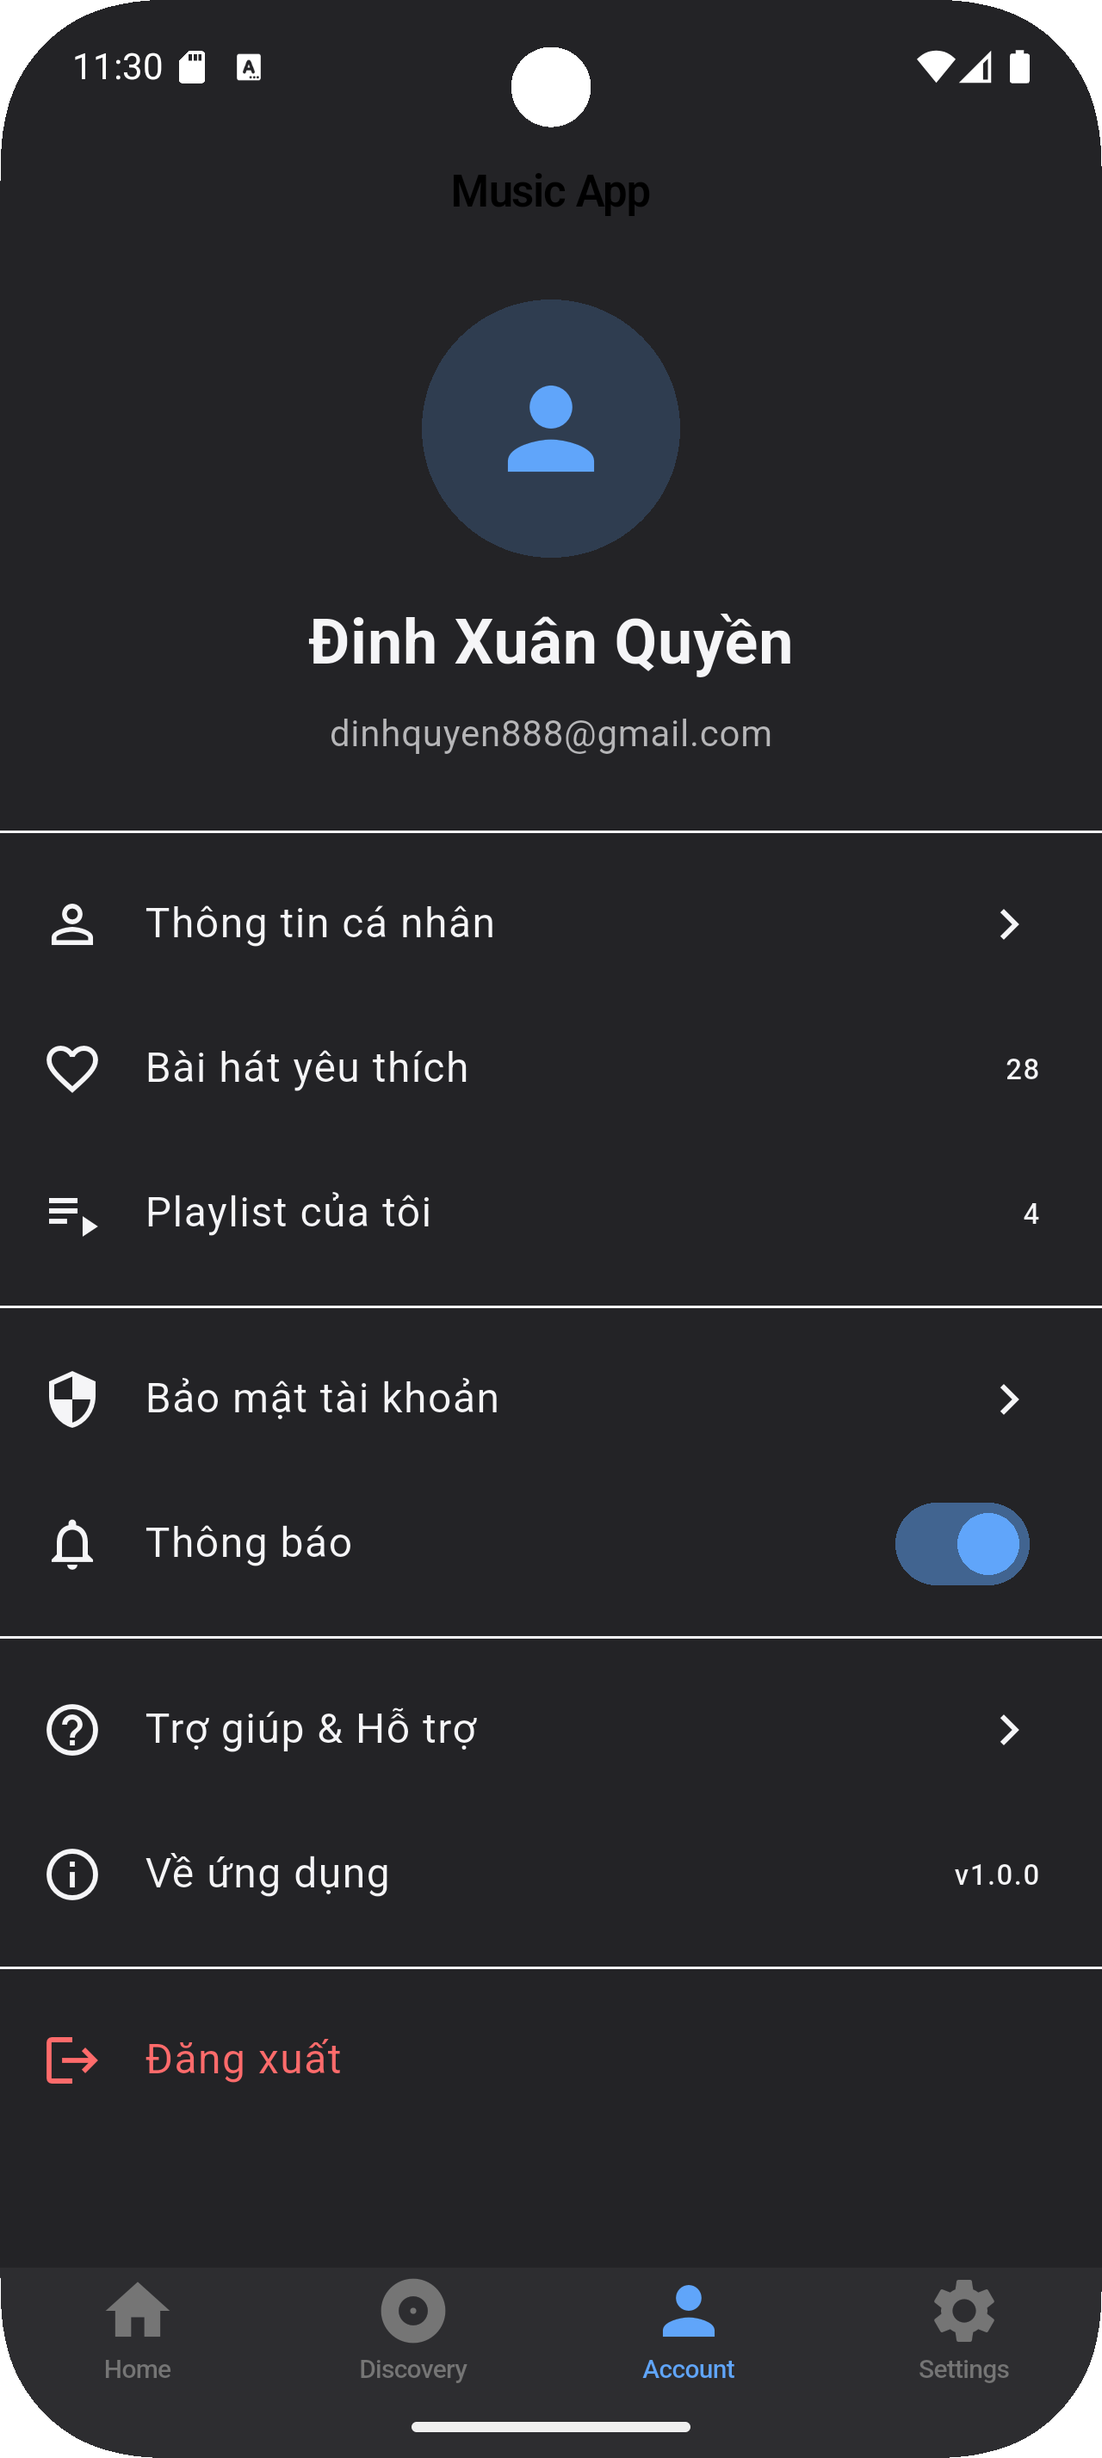
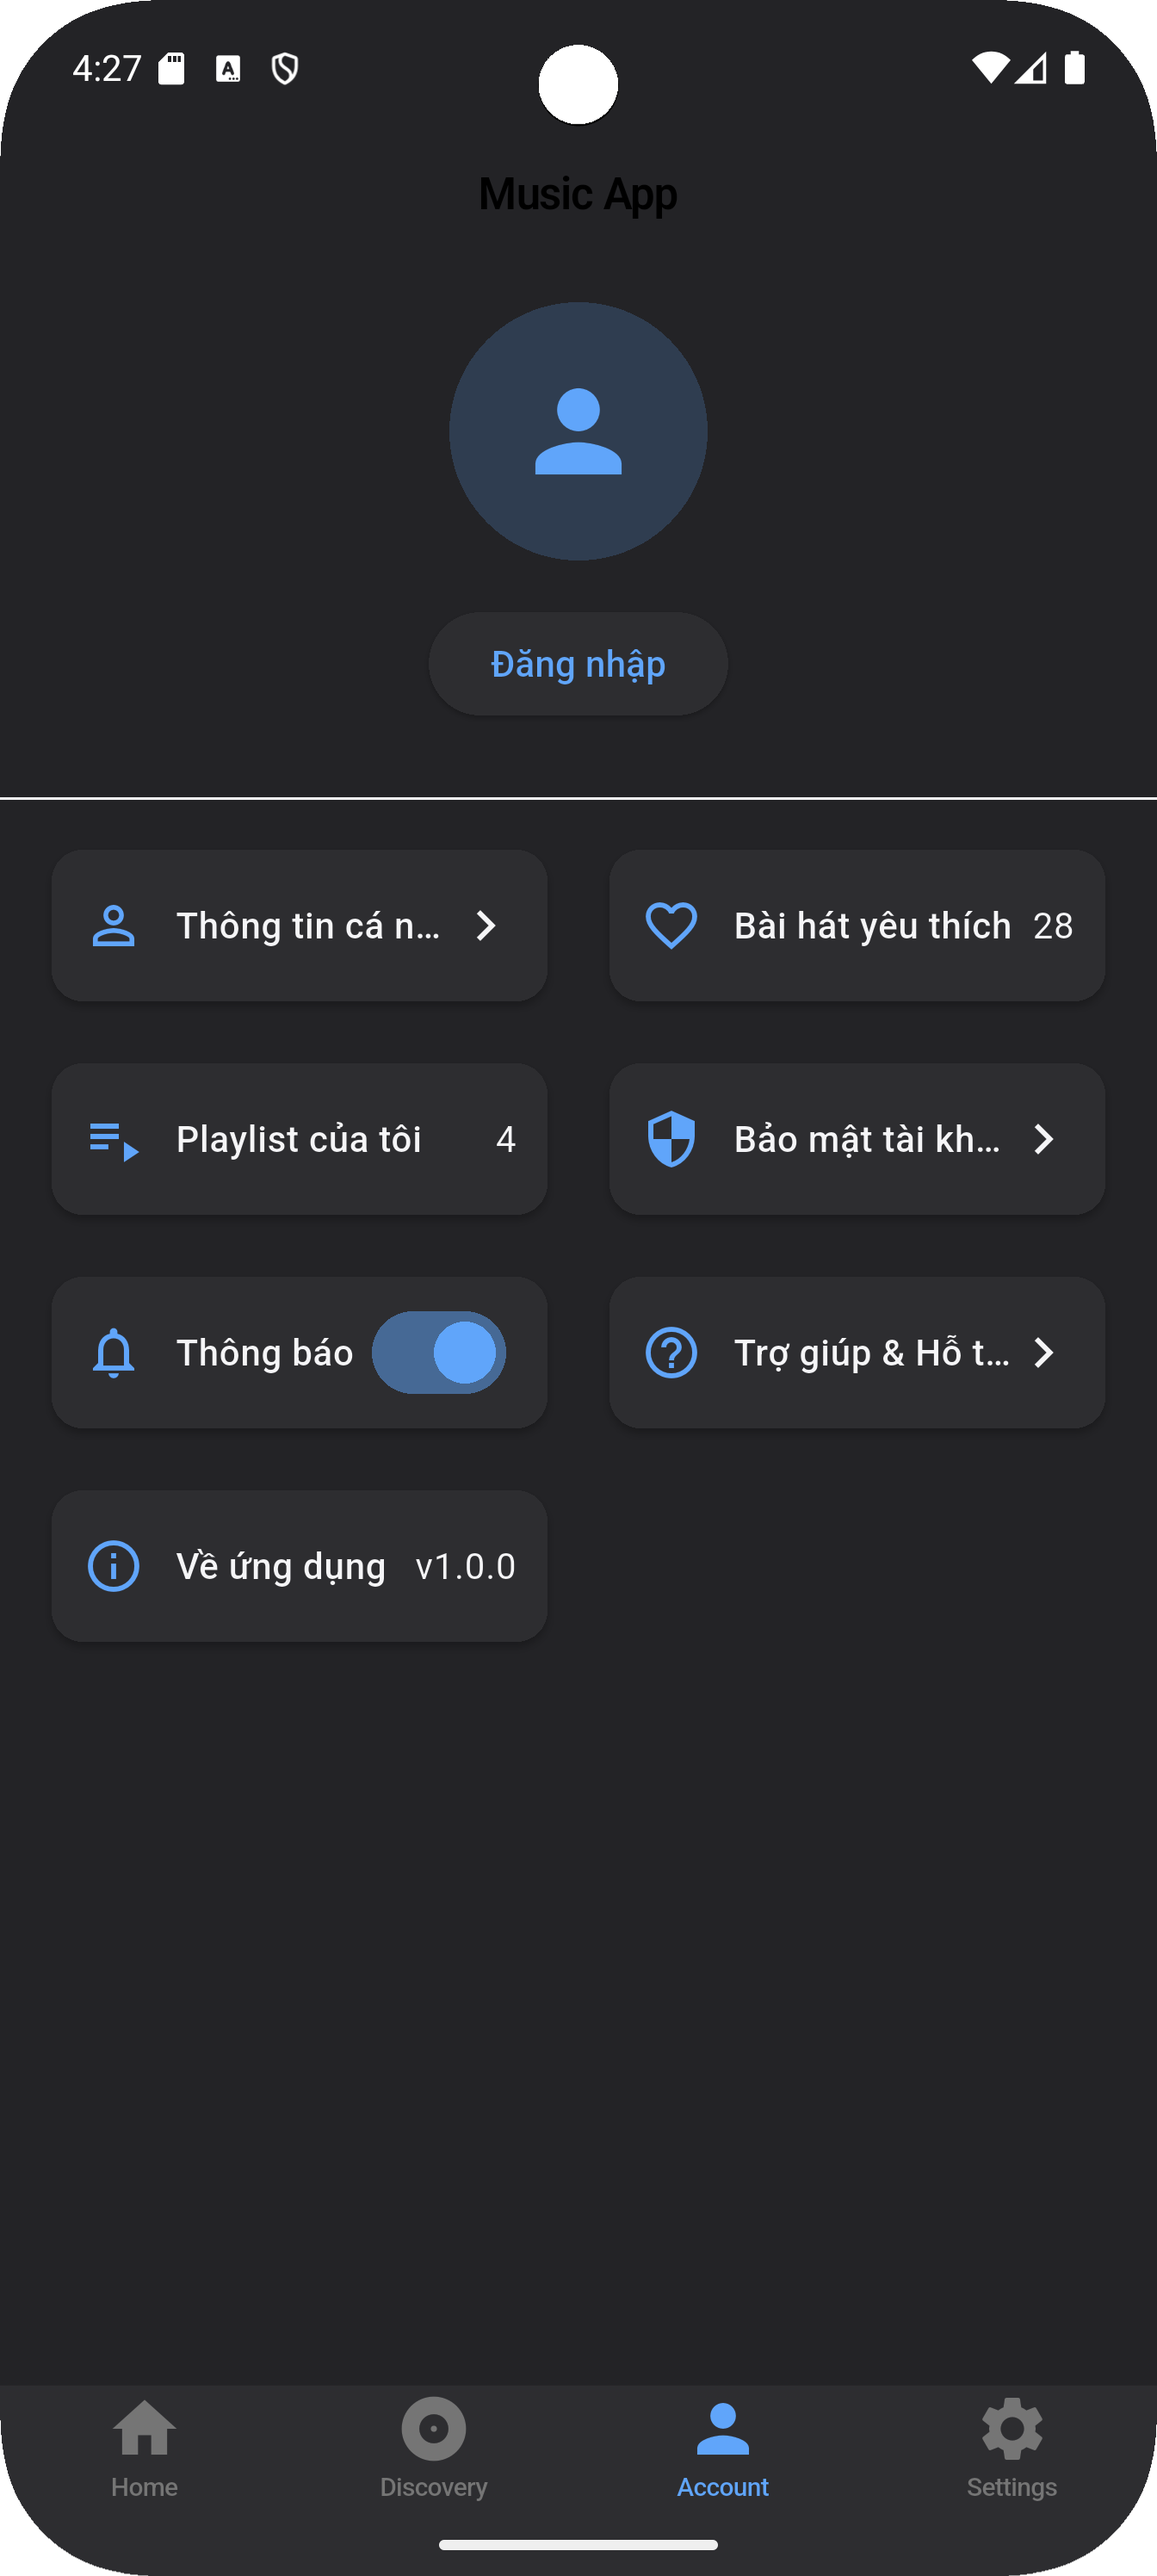
thay_listView_thanh_gridView_trang_acount

diff --git a/Group12Project/Music_app/lib/ui/user/user.dart b/Group12Project/Music_app/lib/ui/user/user.dart
@@ -74,92 +74,82 @@ class _AccountTabState extends State<AccountTab> {
               const Divider(),
 
               // Account Settings
-              ListView(
+              GridView(
                 shrinkWrap: true,
                 physics: const NeverScrollableScrollPhysics(),
+                padding: const EdgeInsets.symmetric(horizontal: 16, vertical: 8),
+                gridDelegate: const SliverGridDelegateWithFixedCrossAxisCount(
+                  crossAxisCount: 2,
+                  childAspectRatio: 3.0,
+                  crossAxisSpacing: 16,
+                  mainAxisSpacing: 16,
+                ),
                 children: [
-                  ListTile(
-                    leading: const Icon(Icons.person_outline),
-                    title: const Text('Thông tin cá nhân'),
+                  _buildSettingCard(
+                    icon: Icons.person_outline,
+                    title: 'Thông tin cá nhân',
                     trailing: const Icon(Icons.chevron_right),
                     onTap: () {
                       // TODO: Navigate to profile edit
                     },
                   ),
-                  ListTile(
-                    leading: const Icon(Icons.favorite_border),
-                    title: const Text('Bài hát yêu thích'),
+                  _buildSettingCard(
+                    icon: Icons.favorite_border,
+                    title: 'Bài hát yêu thích',
                     trailing: const Text('28'),
                     onTap: () {
                       // TODO: Navigate to favorites
                     },
                   ),
-                  ListTile(
-                    leading: const Icon(Icons.playlist_play),
-                    title: const Text('Playlist của tôi'),
+                  _buildSettingCard(
+                    icon: Icons.playlist_play,
+                    title: 'Playlist của tôi',
                     trailing: const Text('4'),
                     onTap: () {
                       // TODO: Navigate to playlists
                     },
                   ),
-                  
-                  const Divider(),
-                  
-                  // Account Security
-                  ListTile(
-                    leading: const Icon(Icons.security),
-                    title: const Text('Bảo mật tài khoản'),
+                  _buildSettingCard(
+                    icon: Icons.security,
+                    title: 'Bảo mật tài khoản',
                     trailing: const Icon(Icons.chevron_right),
                     onTap: () {
                       // TODO: Navigate to security settings
                     },
                   ),
-                  ListTile(
-                    leading: const Icon(Icons.notifications_none),
-                    title: const Text('Thông báo'),
+                  _buildSettingCard(
+                    icon: Icons.notifications_none,
+                    title: 'Thông báo',
                     trailing: Switch(
                       value: true,
                       onChanged: (bool value) {
                         // TODO: Toggle notifications
                       },
                     ),
+                    onTap: () {},
                   ),
-                  
-                  const Divider(),
-                  
-                  // Support & About
-                  ListTile(
-                    leading: const Icon(Icons.help_outline),
-                    title: const Text('Trợ giúp & Hỗ trợ'),
+                  _buildSettingCard(
+                    icon: Icons.help_outline,
+                    title: 'Trợ giúp & Hỗ trợ',
                     trailing: const Icon(Icons.chevron_right),
                     onTap: () {
                       // TODO: Navigate to help
                     },
                   ),
-                  ListTile(
-                    leading: const Icon(Icons.info_outline),
-                    title: const Text('Về ứng dụng'),
+                  _buildSettingCard(
+                    icon: Icons.info_outline,
+                    title: 'Về ứng dụng',
                     trailing: const Text('v1.0.0'),
                     onTap: () {
                       // TODO: Show about dialog
                     },
                   ),
-                  
-                  const Divider(),
-                  
-                  // Logout
                   if (currentUser != null)
-                    ListTile(
-                      leading: Icon(
-                        Icons.logout,
-                        color: Theme.of(context).colorScheme.error,
-                      ),
-                      title: Text(
-                        'Đăng xuất',
-                        style: TextStyle(
-                          color: Theme.of(context).colorScheme.error,
-                        ),
-                      ),
+                    _buildSettingCard(
+                      icon: Icons.logout,
+                      title: 'Đăng xuất',
+                      iconColor: Theme.of(context).colorScheme.error,
+                      textColor: Theme.of(context).colorScheme.error,
                       onTap: () async {
                         await _firebaseService.signOut();
                         setState(() {
@@ -234,6 +224,47 @@ class _AccountTabState extends State<AccountTab> {
               child: Text(isLogin ? 'Đăng nhập' : 'Đăng ký'),
             ),
           ],
+        ),
+      ),
+    );
+  }
+
+  Widget _buildSettingCard({
+    required IconData icon,
+    required String title,
+    Widget? trailing,
+    Color? iconColor,
+    Color? textColor,
+    required VoidCallback onTap,
+  }) {
+    return Card(
+      elevation: 2,
+      child: InkWell(
+        onTap: onTap,
+        borderRadius: BorderRadius.circular(8),
+        child: Padding(
+          padding: const EdgeInsets.all(12),
+          child: Row(
+            children: [
+              Icon(
+                icon,
+                color: iconColor ?? Theme.of(context).colorScheme.primary,
+              ),
+              const SizedBox(width: 12),
+              Expanded(
+                child: Text(
+                  title,
+                  style: TextStyle(
+                    color: textColor,
+                    fontWeight: FontWeight.w500,
+                  ),
+                  maxLines: 1,
+                  overflow: TextOverflow.ellipsis,
+                ),
+              ),
+              if (trailing != null) trailing,
+            ],
+          ),
         ),
       ),
     );

diff --git a/Group12Project/Music_app/lib/ui/home/viewmodel.dart b/Group12Project/Music_app/lib/ui/home/viewmodel.dart
@@ -19,13 +19,13 @@ class MusicAppViewModel {
   }
 
   // Hàm upload data (chỉ chạy 1 lần)
-  Future<void> uploadInitialData() async {
-    // Đọc từ file JSON local
-    // final String jsonString = await rootBundle.loadString('assets/songs.json');
-    // final List<dynamic> jsonData = json.decode(jsonString);
-    // final List<Song> songs = jsonData.map((item) => Song.fromJson(item)).toList();
+  // Future<void> uploadInitialData() async {
+  //   // Đọc từ file JSON local
+  //   // final String jsonString = await rootBundle.loadString('assets/songs.json');
+  //   // final List<dynamic> jsonData = json.decode(jsonString);
+  //   // final List<Song> songs = jsonData.map((item) => Song.fromJson(item)).toList();
     
-    // Upload lên Firestore
-    // await _songService.uploadSongs(songs);
-  }
+  //   // Upload lên Firestore
+  //   // await _songService.uploadSongs(songs);
+  // }
 }

diff --git a/README.md b/README.md
@@ -65,7 +65,7 @@ git clone https://github.com/dinhquyn/MobileAppDev_N05_Group12.git
 <p align="center">
   <img src="Group12Project/Music_app/assets/images/home.png" alt="Home screen" width="22%">
   <img src="Group12Project/Music_app/assets/images/discovery.png" alt="Discovery screen" width="22%">
-  <img src="Group12Project/Music_app/assets/images/user.png" alt="Account screen" width="22%">
+  <img src="Group12Project/Music_app/assets/images/acount.png" alt="Account screen" width="22%">
   <img src="Group12Project/Music_app/assets/images/setting.png" alt="Setting screen" width="22%">
   <img src="Group12Project/Music_app/assets/images/NowPlaying.png" alt="Setting screen" width="22%">
 </p>
